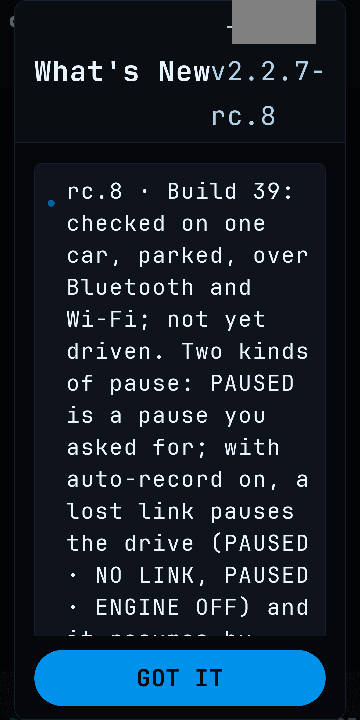
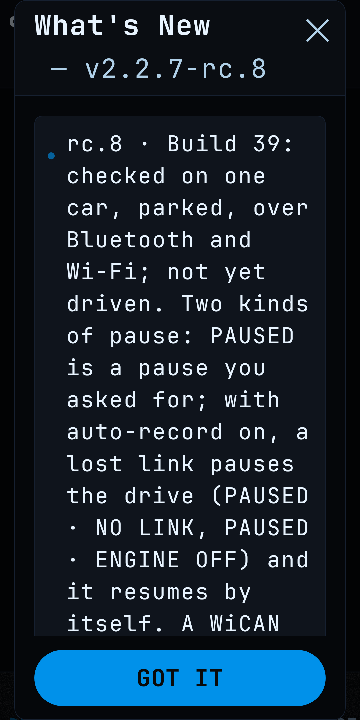
Screenshot tests: re-record after staging, mask only what shows of the LIVE pill
Staging's What's New title row changed that dialog at font 1.3 and 2.0. The LIVE-pill mask now leaves out the part a
dialog drawn over the header covers (What's New's title sat under it); Settings and What's New re-recorded on Linux.
The re-record notes move from CLAUDE.md to ui-compose.md, "Screenshot goldens".

diff --git a/android/app/src/testDebug/java/com/openrs/dash/MainScreensScreenshotTest.kt b/android/app/src/testDebug/java/com/openrs/dash/MainScreensScreenshotTest.kt
@@ -27,6 +27,8 @@ import android.graphics.BitmapFactory
 import android.graphics.Canvas
 import android.graphics.Paint
 import android.graphics.Rect
+import android.graphics.Region
+import android.graphics.RegionIterator
 import com.github.takahirom.roborazzi.RoborazziOptions
 import com.github.takahirom.roborazzi.RoborazziTaskType
 import com.github.takahirom.roborazzi.captureRoboImage
@@ -196,7 +198,10 @@ class MainScreensScreenshotTest(private val fontScale: Float) {
                 val file = if (page == 1) "${name}_$font" else "${name}_p${page}_$font"
                 val shot = screen(file)
                 val paint = Paint().apply { color = MASK }
-                Canvas(shot).apply { masks().forEach { drawRect(it, paint) } }
+                Canvas(shot).apply {
+                    val r = Rect()
+                    masks().forEach { region -> RegionIterator(region).let { while (it.next(r)) drawRect(r, paint) } }
+                }
                 shot.captureRoboImage("src/testDebug/screenshots/$file.png", options)
                 if (!paged || fontScale > 1.3f || !scrollOnePage()) break
                 check(++page <= MAX_PAGES) { "$name at font $fontScale scrolls past $MAX_PAGES screenfuls" }
@@ -232,10 +237,15 @@ class MainScreensScreenshotTest(private val fontScale: Float) {
      * - the debug build's source revision in Settings' ABOUT line ("· debug 1549b7e*"), new with every commit;
      * - the header's LIVE pill: its dot pulses for ever, and how far it has got when the image is taken depends on how long
      *   Robolectric waits for background work first (seen on pages after a scroll), so it differed between runs.
+     * A box covers only what shows of its window: a dialog drawn over it hides the part under the dialog's content (What's
+     * New's title sits over the header's LIVE pill), and only what shows of the pill around Settings is painted over.
      */
-    private fun masks(): List<Rect> {
+    private fun masks(): List<Region> {
         val commit = com.openrs.dash.update.BuildInfo.sourceCommit.take(7)
-        val out = mutableListOf<Rect>()
+        val out = mutableListOf<Region>()
+        // Each window's content on screen, bottom window first (the order the windows were added)
+        val covers = mutableListOf<Rect>()
+        val boxes = mutableListOf<Pair<Int, Rect>>()
         for (window in windows()) {
             val root = composeRoot(window) ?: continue
             // Where the screen image puts this window: placed by its gravity on the display (a dialog is centred)
@@ -251,12 +261,22 @@ class MainScreensScreenshotTest(private val fontScale: Float) {
                 val livePill = n.config.getOrNull(SemanticsActions.OnClick) != null && textOf(n) == LinkUi.LIVE.pill
                 if ((text != null && commit.length == 7 && commit in text) || livePill) {
                     val b = n.boundsInWindow
-                    out += Rect(frame.left + b.left.toInt(), frame.top + b.top.toInt(),
+                    boxes += covers.size to Rect(frame.left + b.left.toInt(), frame.top + b.top.toInt(),
                         frame.left + kotlin.math.ceil(b.right).toInt(), frame.top + kotlin.math.ceil(b.bottom).toInt())
                 }
                 n.children.forEach { walk(it) }
             }
-            walk(root.semanticsOwner.unmergedRootSemanticsNode)
+            val content = root.semanticsOwner.unmergedRootSemanticsNode
+            walk(content)
+            val c = content.boundsInWindow
+            covers += Rect(frame.left + c.left.toInt(), frame.top + c.top.toInt(),
+                frame.left + c.right.toInt(), frame.top + c.bottom.toInt())
+        }
+        for ((index, box) in boxes) {
+            val region = Region(box)
+            // The window that holds the box is covers[index]; every window after it is drawn over it
+            for (above in covers.drop(index + 1)) region.op(above, Region.Op.DIFFERENCE)
+            if (!region.isEmpty) out += region
         }
         return out
     }

diff --git a/CLAUDE.md b/CLAUDE.md
@@ -211,13 +211,8 @@ Unit tests live in `android/app/src/test/java/com/openrs/dash/` (JVM, plus Robol
 in `web/src/` (`*.test.ts`, `*.test.tsx`) for Sapphire. Run one class with `./gradlew test --tests '*ClassName*'`. For the
 per-class catalog, list the folder.
 
-Screenshot tests (Roborazzi on Robolectric, debug variant only): `android/app/src/testDebug/` composes the main screens at
-360 dp, font 1.0 / 1.3 (every screenful) and 2.0 (first), from demo data; the goldens are
-`android/app/src/testDebug/screenshots/*.png`. Every `./gradlew test` compares against them (`roborazzi.test.verify` in
-`android/gradle.properties`) and fails on a changed pixel; the diff images land in `app/build/outputs/roborazzi/`. After an
-intended layout change, re-record on Linux (`./gradlew recordRoborazziDebug --tests '*MainScreensScreenshotTest*'`; macOS
-renders other pixels), look at every changed PNG, and commit them with the change. A PNG in a pull request needs the
-privacy scan's reviewer OK (`privacy-ok-compressed`).
+Screenshot tests of the main screens (Roborazzi, debug only) live in `android/app/src/testDebug/`; every `./gradlew test`
+compares them. Re-recording after a layout change: `.claude/rules/ui-compose.md`, "Screenshot goldens".
 
 Counts are not kept here. To count: `./gradlew clean test lint --no-build-cache` on Temurin 17 (a plain run can restore
 results from the Gradle build cache); one test is skipped by decision (`#251 outlier policy`). Sapphire:

diff --git a/.claude/rules/ui-compose.md b/.claude/rules/ui-compose.md
@@ -74,6 +74,14 @@ paths:
   the wordmark, the 44 dp cog and the 7 dp REC dot. Never feed live mode, ESC, REC or link state into that decision: a header
   that changes height moves every page. The measured-only copies must stay out of the merged semantics tree, so TalkBack reads
   each pill once (`EscHeaderPillTest` walks the merged tree; `HeaderFitMatrixTest` sweeps link and mode at the switch points).
+- **Screenshot goldens** — `MainScreensScreenshotTest` (`android/app/src/testDebug/`) composes DRIVE, PERF, THERMAL, TRIP,
+  GARAGE (+ DIAG), Settings (+ UNITS) and What's New at 360 dp from demo data, font 1.0 / 1.3 every screenful and 2.0 the
+  first; every `./gradlew test` compares them with `src/testDebug/screenshots/*.png` (`roborazzi.test.verify` in
+  `android/gradle.properties`) and fails on a changed pixel, diffs in `app/build/outputs/roborazzi/`. A change that moves
+  any of those screens (a merge from staging included) re-records on Linux only — `./gradlew recordRoborazziDebug --tests
+  '*MainScreensScreenshotTest*'`; macOS renders other pixels — looks at every changed PNG and commits them with the
+  change. A PNG in a pull request needs the privacy scan's reviewer OK (`privacy-ok-compressed`). Goldens hold demo or
+  synthetic data only: never a real drive, VIN, location or device name
 
 ## Theme Colors
 
